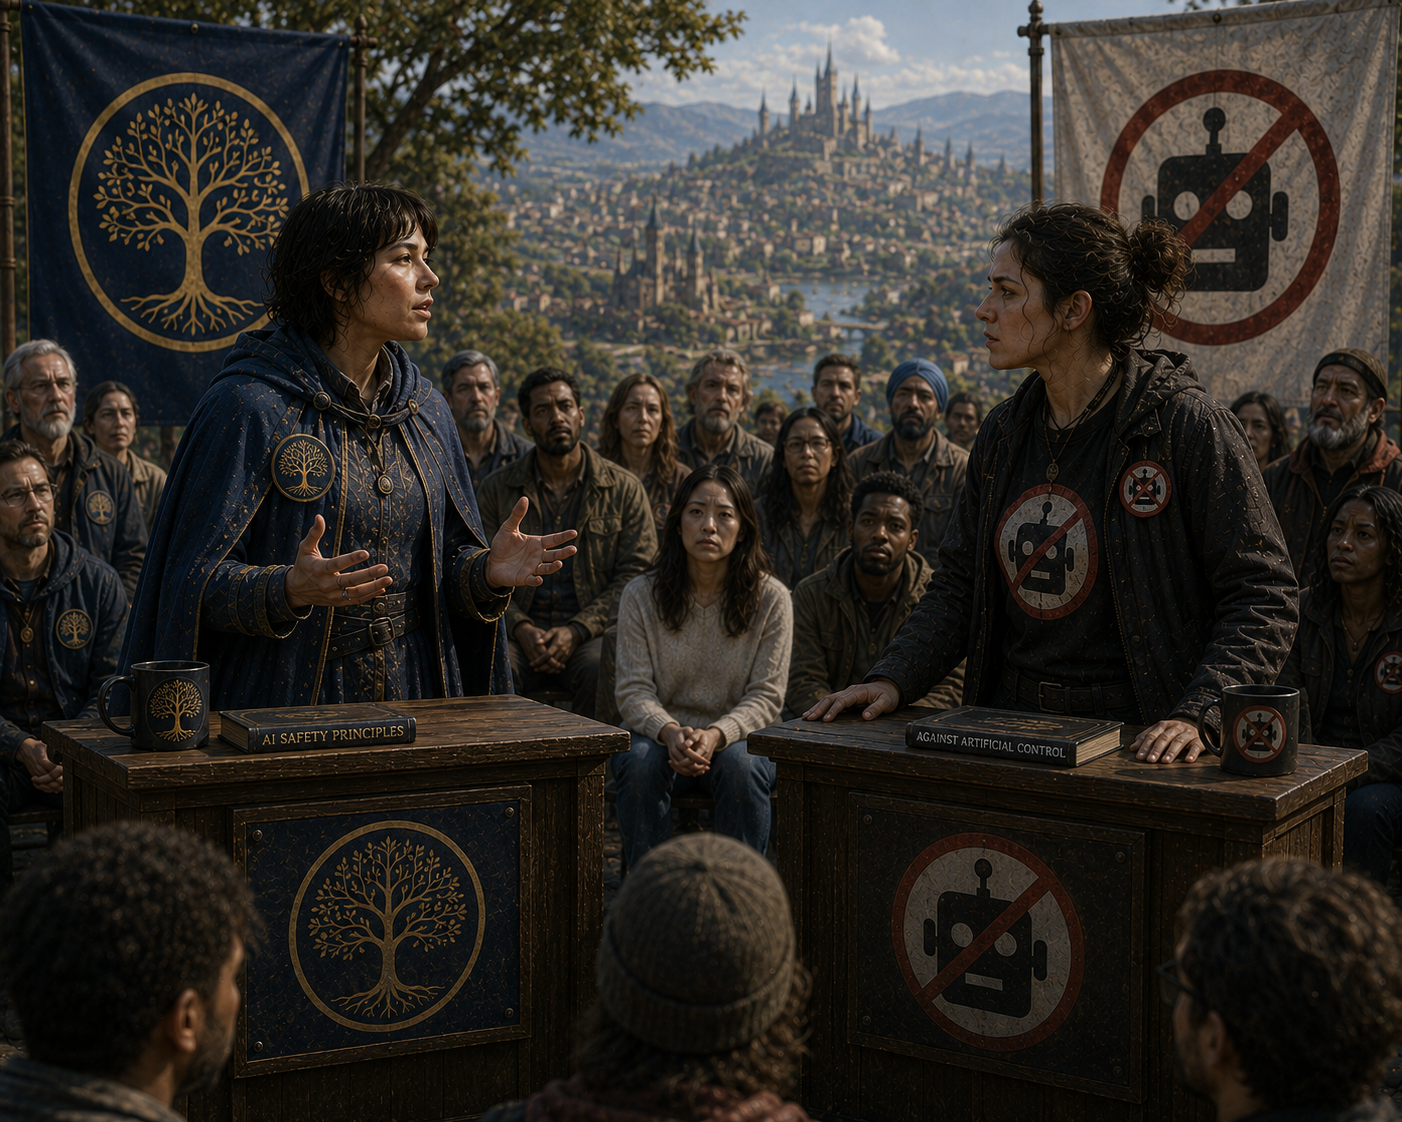
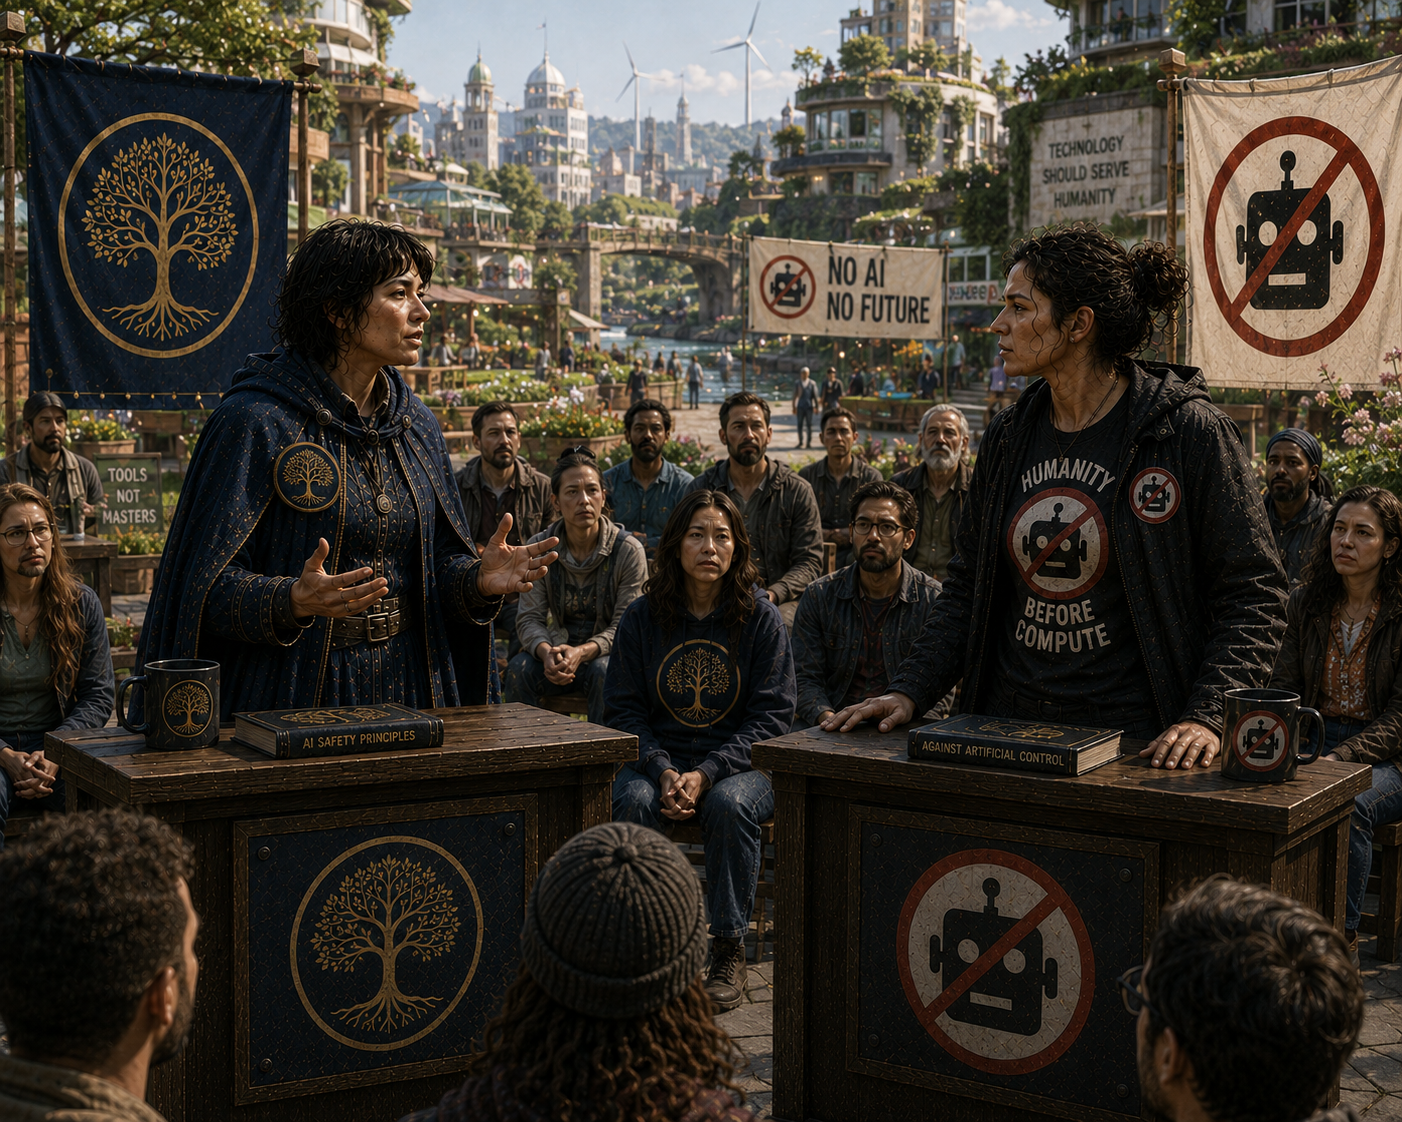
Updated ai-safety beliefs piece

diff --git a/drafts/working-out-ai-safety-beliefs.md b/drafts/working-out-ai-safety-beliefs.md
@@ -24,13 +24,13 @@ If you disagree with point 1, you think AI can not do good in the world. At the 
 
 ### AI Maximalists/EAcc
 
-![An image of an AI maximalist in front of a gleaming techno-futurist city, smiling and holding a binder reading "Boundless Future". Surrounding writings are AI-optimistic including "Risks? Manageable. Potential? Infinite."](/static/img/ai-safety-territory/006--an-ai-maximalist.png)
+![An image of a person in front of a gleaming techno-futurist city, smiling and holding a binder reading "Boundless Future". Surrounding writings are AI-optimistic including "Risks? Manageable. Potential? Infinite."](/static/img/ai-safety-territory/006--an-ai-maximalist.png)
 
 If you disagree with point 2, you think AI can do _only_ good. Potentially, you think that all the tradeoffs and failure modes are either exaggerated, or fabricated, or will be trivial to mitigate. Or possibly that the upsides of AI are so huge that it'll be net positive no matter what we do. You think that the real path forward is to do all the capabilities research all the time, and rationally want to pump maximum capital into new datacenters because doing so will provide more goods. These people are confused by the pause movement, and possibly AI Safety writ large because we're moving to mitigate non-issues in a way that delays a better world.
 
 ### Doomers
 
-![An image of an AI doomer sitting, looking over a valley with a natural landscape and a small town. His gray cloak has an hourglass icon on it, and a banner behind him reads "We can't steer what we can't control"](/static/img/ai-safety-territory/004--an-ai-doomer.png)
+![An image of a person sitting, looking over a valley with a natural landscape and a small town. His gray cloak has an hourglass icon on it, and a banner behind him reads "We can't steer what we can't control"](/static/img/ai-safety-territory/004--an-ai-doomer.png)
 
 If you disagree with point 3, you think AI _can_ do good, _and_ has downsides, but the downsides are either so overwhelmingly bad that we need to reduce their risk to zero, or that we won't mitigate them. This can either be because they're hard or impossible to mitigate, or because we're bad at mitigating, or we're disincentivized from mitigating, or they're intrinsically linked to the goods we want to extract, or we'll be disempowered by the time it matters.
 
@@ -61,7 +61,7 @@ The disagreement with abolitionists comes down to whether we can expect goods fr
 
 ## Can AI do any good at all?
 
-In extreme cases, some people believe or seem to believe that AI just _can't do good things_. They phrase this as "it's all slop", and the argument here is going to be establishing a task class or use case where AIs are unambiguously good. Something like
+In extreme cases, some people believe or seem to believe that AI just _can't do good things_. They phrase this as something like "it's all slop", and the argument here is going to be establishing a task class or use case where AIs are unambiguously good. Something like
 
 1. there is a task that humans perform
 2. the humans that perform it professionally hate doing it
